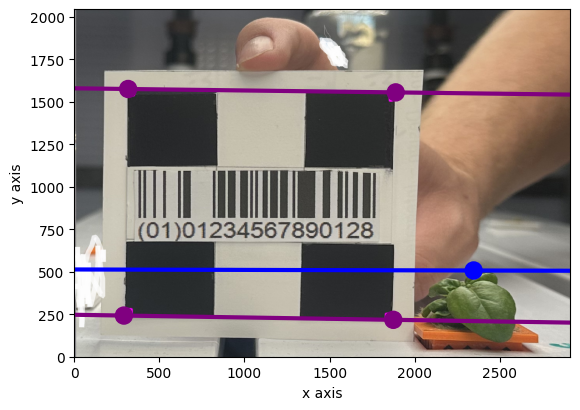
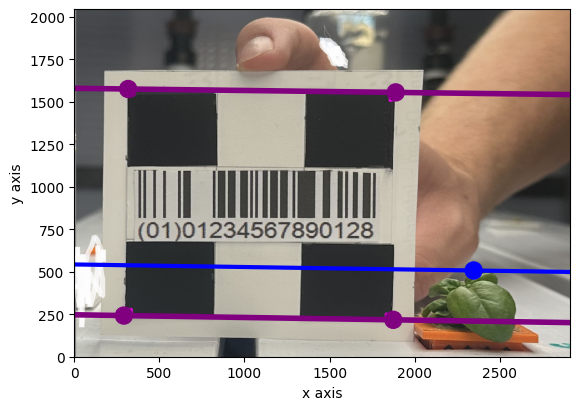
made it so that the the barcode can be read in the picture

diff --git a/processing/old/height.py b/processing/old/height.py
@@ -1,6 +1,8 @@
 import cv2
 import matplotlib.pyplot as plt
-import zxingcpp
+import cv2
+from pyzbar.pyzbar import decode
+from PIL import Image
 
 def plant_image_found(file_path):
     image = cv2.flip(cv2.imread(file_path),0)
@@ -10,70 +12,81 @@ def plant_image_found(file_path):
     else:
         return image
 
-def draw_line_from_mb(ax, m, b, width, height, color='purple', linewidth=3):
-    """Draw y = m x + b across the whole image extent."""
-    # endpoints along full image width
-    x0, x1 = 0, width
-    y0 = m * x0 + b
-    y1 = m * x1 + b
-    ax.plot([x0, x1], [y0, y1], color=color, linewidth=linewidth)
 
-def draw_full_line(ax, p1, p2, width, height, color='purple', linewidth=3):
-    """Draw an infinite line through p1 & p2, clipped to image borders."""
-    x1, y1 = p1
-    x2, y2 = p2
+def print_graph(v):
+    graph = v.image
+    graph_rgb = cv2.cvtColor(graph, cv2.COLOR_BGR2RGB)
 
-    if x2 == x1:  # vertical
-        ax.plot([x1, x1], [0, height], color=color, linewidth=linewidth)
-        return
-
-    m = (y2 - y1) / (x2 - x1)
-    b = y1 - m * x1
-    draw_line_from_mb(ax, m, b, width, height, color=color, linewidth=linewidth)
-
-def draw_intersect_line_from_res(ax, res, color='blue', linewidth=3):
-    """
-    Third line: passes through the intersection of the top/bottom edges
-    and also through the 'top_green' point.
-    """
-    (xi, yi) = res["intersection"]
-    (xg, yg) = res["top_green"]
-    draw_full_line(ax, (xi, yi), (xg, yg), res["width"], res["height"], color=color, linewidth=linewidth)
-
-def print_graph_from_metrics(res, out_path="Server/processing/output.png"):
-    image = res["image"]
-    graph_rgb = cv2.cvtColor(image, cv2.COLOR_BGR2RGB)
-    height, width = res["height"], res["width"]
+    height, width, _ = graph.shape
 
     fig, ax = plt.subplots()
     ax.imshow(graph_rgb)
     ax.axis('on')
 
-    # IMPORTANT: y-down to match image coordinates
     ax.set_xlim(0, width)
-    ax.set_ylim(0, height)
+    ax.set_ylim(0, height)  # flip y-axis so coordinates match image
 
     ax.set_xlabel("x axis")
     ax.set_ylabel("y axis")
+    # Create and add circle to the axes
+    
+    
+    for point in [v.blp, v.brp, v.trp, v.tlp]:
+        circle = plt.Circle(point, 50, color='purple', fill=True)
+        ax.add_patch(circle)
+        
+    circle = plt.Circle(v.top_green, 50, color='blue', fill=True)
+    ax.add_patch(circle)
+    
+    draw_full_line(ax,v.blp,v.brp,width,height)
+    draw_full_line(ax,v.tlp,v.trp,width,height)
+    
+    draw_intersect_line(ax,v.tlp,v.trp,v.blp,v.brp,width,height,v.top_green, color='blue')
 
-    # circles for the detected points
-    for key in ["blp", "brp", "trp", "tlp"]:
-        x, y = res[key]
-        ax.add_patch(plt.Circle((x, y), 50, color='purple', fill=True))
-    # top_green marker
-    xg, yg = res["top_green"]
-    ax.add_patch(plt.Circle((xg, yg), 50, color='blue', fill=True))
+    plt.savefig("Server/processing/output.png", bbox_inches="tight")
+    plt.close(fig)  # close to free memory
+    
+def draw_intersect_line(ax,tpl,tpr,btl,btr,width,height,green_point, color='purple',linewidth=3):
+    (x1,y1) = tpl
+    (x2,y2) = tpr
+    (x3,y3) = btl
+    (x4,y4) = btr
+    
+    m1 = (y2-y1)/(x2-x1)
+    b1 = y1 - m1*x1
+    
+    m2 = (y4 - y3)/(x4 - x3)
+    b2 = y3 - m2 * x3
+    
+    x = (b2-b1)/m1-m2
+    y = m1*x+b1
+    
+    draw_full_line(ax,(x,y),green_point,width,height,color)
+    
 
-    # draw the top and bottom edges using m,b from the result
-    draw_line_from_mb(ax, res["m_top"], res["b_top"], width, height, color='purple', linewidth=4)
-    draw_line_from_mb(ax, res["m_bot"], res["b_bot"], width, height, color='purple', linewidth=4)
+def draw_full_line(ax, p1, p2, width, height, color='purple', linewidth=3):
+    # unpack
+    x1, y1 = p1
+    x2, y2 = p2
 
-    # third line through the intersection and your chosen point
-    draw_intersect_line_from_res(ax, res, color='blue', linewidth=3)
+    # handle vertical line separately to avoid divide-by-zero
+    if x2 == x1:
+        ax.plot([x1, x1], [0, height], color=color, linewidth=linewidth)
+        return
 
-    plt.savefig(out_path, bbox_inches="tight")
-    plt.close(fig)
+    # line equation: y = m*x + b
+    m = (y2 - y1) / (x2 - x1)
+    b = y1 - m * x1
 
+    # find intersections with image borders
+    x_start = 0
+    y_start = m * x_start + b
+    x_end = width
+    y_end = m * x_end + b
+
+    # clip to image boundaries
+    ax.plot([x_start, x_end], [y_start, y_end], color=color, linewidth=linewidth)
+    
 
 def find_purple_bl(image):
     height, width, _ = image.shape
@@ -124,19 +137,21 @@ def find_green_top(image):
             pixel = image[y,x]
             if pixel[0]<80 and pixel[1]>100 and pixel[2]<100:
                 return (x,y)
-            
-def compute_height_metrics(image_path, scale_units=5.0):
+                
+def compute_height(image_path, scale_units=5.0):
+    # Load image
     image = plant_image_found(image_path)
     if image is None:
         raise ValueError(f"Could not load image: {image_path}")
 
-    # ---- detections ----
+    # Detect points
     tlp = find_purple_tl(image)
     trp = find_purple_tr(image)
     blp = find_purple_bl(image)
     brp = find_purple_br(image)
     top_green = find_green_top(image)
 
+    # Validate detections
     for name, pt in [("tlp", tlp), ("trp", trp), ("blp", blp), ("brp", brp), ("top_green", top_green)]:
         if pt is None:
             raise ValueError(f"Missing detection: {name}")
@@ -147,6 +162,7 @@ def compute_height_metrics(image_path, scale_units=5.0):
     (x4, y4) = brp
     (xg, yg) = top_green
 
+    # Slopes of top and bottom lines (guard vertical)
     if x2 == x1:
         raise ZeroDivisionError("Top edge is vertical; cannot compute slope.")
     if x4 == x3:
@@ -158,60 +174,69 @@ def compute_height_metrics(image_path, scale_units=5.0):
     m_bot = (y4 - y3) / (x4 - x3)
     b_bot = y3 - m_bot * x3
 
+    # Intersections of vertical x = xg with top/bottom edges
     y_top = m_top * xg + b_top
     y_low = m_bot * xg + b_bot
 
+    # Height fraction along the vertical between those edges at x = xg
     denom = (y_top - y_low)
     if abs(denom) < 1e-9:
         raise ZeroDivisionError("Top and bottom lines coincide at xg; cannot compute height.")
 
-    # y-down image coords: 0 at top, increases downward
+    # If y increases downward (OpenCV coords), this yields 0 at bottom, 1 at top:
     percent = (yg - y_low) / denom
+
+    # Optionally clamp to [0,1]
     percent = max(0.0, min(1.0, percent))
+
     height_est = scale_units * percent
 
-    # Intersection of the two edges (infinite lines)
-    xi = (b_bot - b_top) / (m_top - m_bot)
-    yi = m_top * xi + b_top
-
-    h, w = image.shape[:2]
+    print(f"top_green = ({xg}, {yg})")
+    print(f"delta_numer = {(y_top - y_low) - (yg - y_low):.3f}")
+    print(f"estimated height of plant is {height_est:.3f} (units)")
 
     return {
-        "image": image,
-        "width": w,
-        "height": h,
-
-        # edges
-        "m_top": m_top, "b_top": b_top,
-        "m_bot": m_bot, "b_bot": b_bot,
-
-        # points
-        "tlp": (x1, y1),
-        "trp": (x2, y2),
-        "blp": (x3, y3),
-        "brp": (x4, y4),
-        "top_green": (xg, yg),
-
-        # useful derived values
-        "y_top_at_xg": y_top,
-        "y_low_at_xg": y_low,
-        "intersection": (xi, yi),
-
-        # outputs
         "percent": percent,
         "height_est": height_est,
+        "y_top": y_top,
+        "y_low": y_low,
+        "m_top": m_top, "b_top": b_top,
+        "m_bot": m_bot, "b_bot": b_bot,
     }
+
+
+information = compute_height("Server/processing/Image1.jpg", scale_units=5.0)
+print_graph(information)
+
+
+'''class view:
+    image_path = "Server/processing/Image1.jpg"
+    image = plant_image_found(image_path)
+    tlp = find_purple_tl(image)
+    (x1,y1) = tlp
+    trp = find_purple_tr(image)
+    (x2,y2) = trp
+    blp = find_purple_bl(image)
+    (x3,y3) = blp
+    brp = find_purple_br(image)
+    (x4,y4) = brp
     
-height_metrics = compute_height_metrics("Server/processing/Image1.jpg",5)
-print_graph_from_metrics(height_metrics)
-#print(height_metrics["height_est"])
+    top_green = find_green_top(image)
+    (x_green,y_green) = top_green
+    
+    m_top = (y2 - y1) / (x2 - x1)
+    b_top = y1 - m_top*x1
+    
+    m_bot = (y4 - y3) / (x4 - x3)
+    b_bot = y3 - m_bot*x3
+    
+    y_top = m_top*x_green+b_top
+    y_low = m_bot*x_green+b_bot
+    
+    percent = 1-(((y_top - y_low) - (y_green - y_low)) / (y_top - y_low))
+    height = 5 * percent
 
-img = cv2.imread("/s/bach/c/under/carv/repository/Server/processing/Image1.jpg")
-rgb = cv2.cvtColor(img, cv2.COLOR_BGR2RGB)
-
-results = zxingcpp.read_barcodes(rgb)  # handles QR + many 1D/2D symbologies
-
-height = height_metrics["height_est"]
-print(f"FOR INPUTTED IMAGE, HEIGHT IS ESTIMATED TO BE {height} CM, WITH PLANT ID OF {results[0].text}")
+    print(f"estimated height of plant is {height}")
 
     
+print_graph(view) '''
